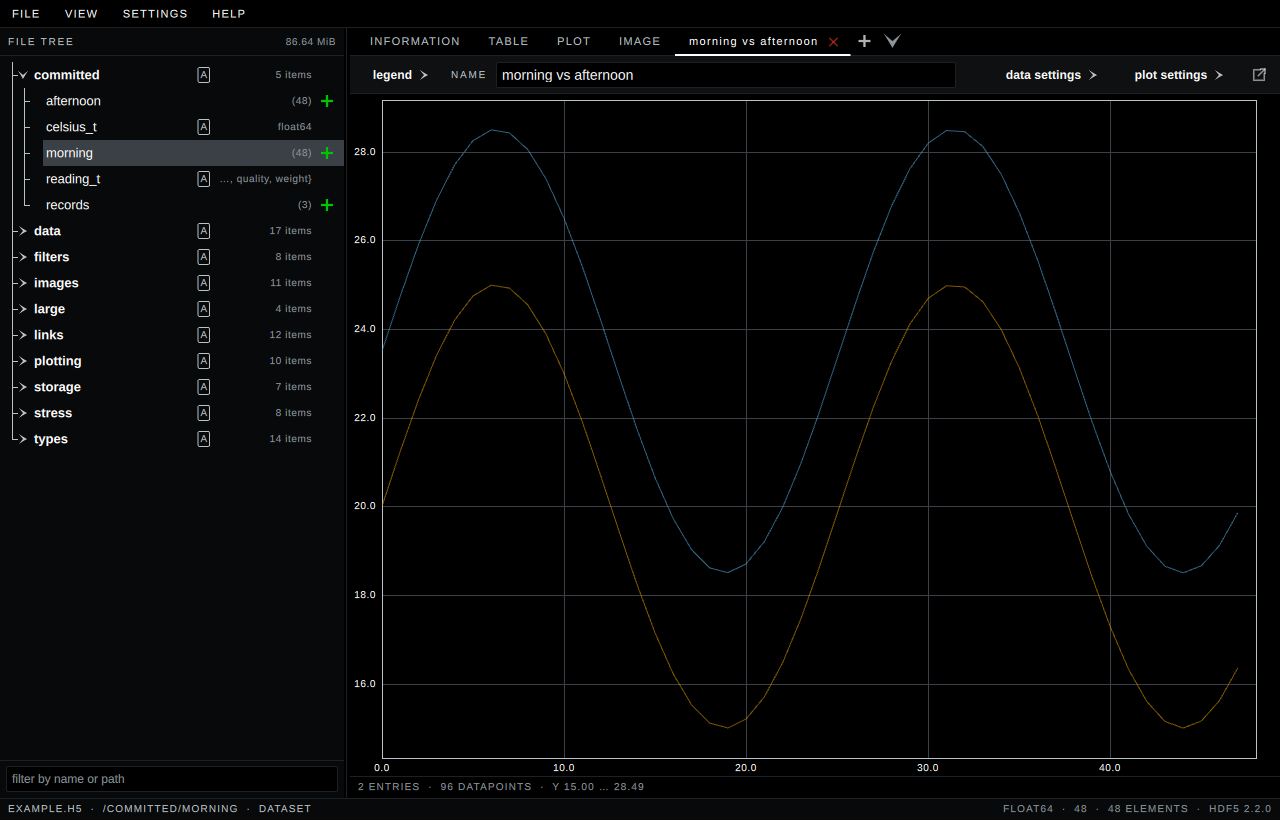
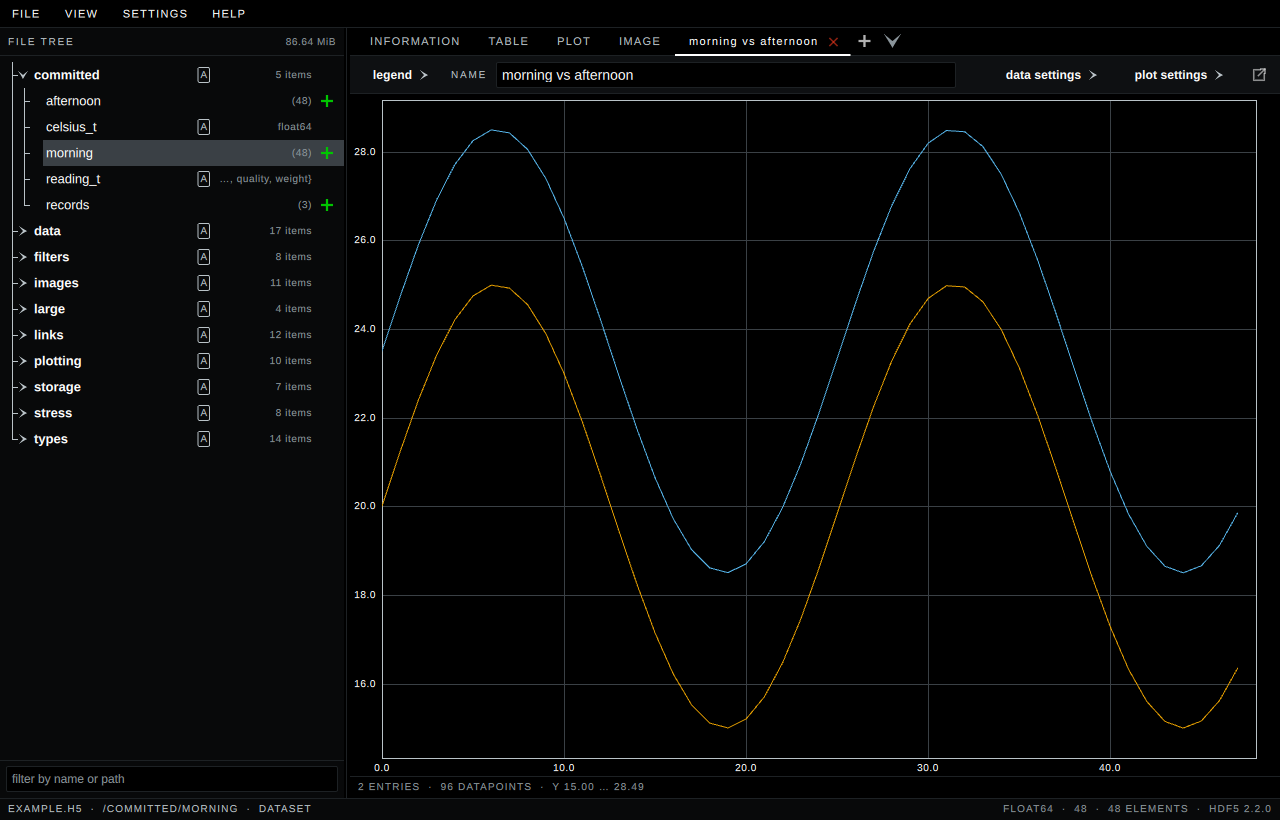
Start the 0.7 series, and write down what it will say it is
The number is a decision rather than a count. Leaving the minor at 6
would have made this 0.6.10, the next patch of a series that was about
the plot -- its export, its colours, its logarithmic axes. A pipeline
that can be written out as text, eleven new operations and custom-plot
lines that are pipelines are not more of that; they are the second half
of what postprocessing is for. Bumping the minor restarts the patch at
zero, and the build already names itself H5Scope-0.7.0.

The notes say what changed for someone deciding whether to take it: the
text view, the operations, pipelines in a custom plot and the button
that puts them there, a custom tab's lines at full strength, and the
panel's path no longer cut short.

The custom plot's picture is taken again, because its lines are now
drawn at full strength; the other three did not change.

Claude-Session: https://claude.ai/code/session_01KK4JZbYXG91eyoGoPNhTNs

diff --git a/CHANGELOG.md b/CHANGELOG.md
@@ -25,6 +25,38 @@ rather than generated. The releases before it are on GitHub with the notes they
 were published under, and backfilling them here would be inventing a record
 rather than keeping one.
 
+## 0.7.0
+
+**A pipeline can be written as text.** Untick **enable visual editing** in the
+postprocessing panel and its rows become the same pipeline written out a step
+to a line — `/group/dataset`, `.select(samples)`, `.slice(1, :)`, `.max(1)` —
+and the two stay in step either way round. The text is checked as you type,
+with the step that will not run named in the reason; Return applies it and puts
+it back a step to a line, and Shift+Return starts a new line. Writing another
+dataset's path on the first line opens that dataset and runs the pipeline there.
+
+**Eleven more operations.** `sum`, `prod`, `cumsum`, `cumprod`, `diff`, `clip`,
+`sqrt` and `pow` are numpy's and answer what numpy answers, down to the last
+bit of a sum; their arguments are written as numpy's are, by position or by
+name, as in `diff(1, axis=0)` or `sum(0, initial=5)`. `add` and `multiply` take
+a number, and `normalize(min, max)` rescales the finite values onto a range —
+0 to 1 unless told otherwise.
+
+**A custom plot's line can be a pipeline.** Each line's card has **enable
+postprocessing**; ticked, its SLICE box becomes a DATA box that takes a whole
+pipeline in the same text form, completes the dataset's path, and says so when
+what the pipeline leaves is not a single line. A line with only a slice in it
+reads exactly what it did before. **Add to custom plot**, at the foot of the
+postprocessing panel, puts what the panel is drawing into a new or an existing
+custom plot, as soon as that is a line.
+
+**A custom tab's lines are drawn at full strength.** Adding a second line
+used to dim every line on the tab, which is how the Plot tab shows where a
+bundle of rows piles up but only hid lines that were each put there on purpose.
+
+**The dataset's path at the top of the postprocessing panel is no longer cut
+short** while there is room beside it.
+
 ## 0.6.9
 
 **Zooming on a logarithmic x axis works.** The line used to be summarised in
